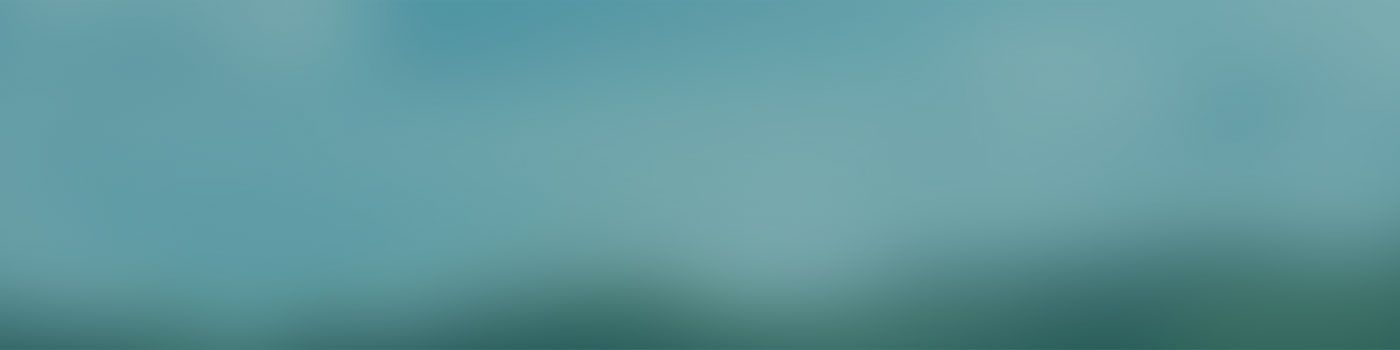
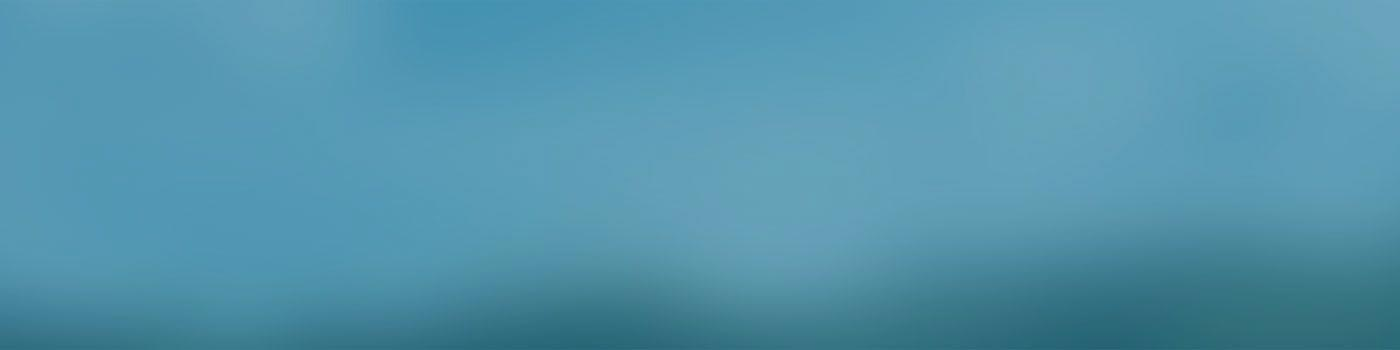
Minor index sample cosmetic changes

diff --git a/public/assets/css/style.css b/public/assets/css/style.css
@@ -1,1 +1,1 @@
-.container{display:block;-moz-box-sizing:content-box;-webkit-box-sizing:content-box;box-sizing:content-box;margin-left:auto;margin-right:auto;max-width:1000px;min-width:260px;padding-left:6%;padding-right:6%}.img-left{float:left;margin-top:.32em;margin-right:2rem;margin-bottom:2rem}.img-right{float:right;margin-top:.32em;margin-bottom:2rem;margin-left:2rem}.hide{display:none}.js-hide{display:none!important}.show{display:inherit}.block{display:block}*,:before,:after{-moz-box-sizing:border-box;-webkit-box-sizing:border-box;box-sizing:border-box;margin:0;outline:0;padding:0}html,body{min-width:260px}html{-ms-text-size-adjust:100%;-webkit-text-size-adjust:100%;font-family:'"1"';font-size:62.5%}body{color:#fff;font-family:Arial,Helvetica,sans-serif;font-size:1.6rem;font-weight:400;line-height:1em;position:relative;background:#689b9e}article,aside,details,figcaption,figure,footer,header,hgroup,main,nav,section,summary{display:block}embed,img,object{max-width:100%}embed,object{height:100%}audio,canvas,video{display:inline-block}abbr[title]{cursor:help;border-bottom:1px dotted #fff}b,strong,.bold{font-weight:700}mark{background:#ff0;color:#fff}canvas{-ms-touch-action:double-tap-zoom}iframe{margin-bottom:4rem}figure{text-align:center;padding:4rem;position:relative;margin-bottom:4rem;border:1px solid #bfbfbf}figure img{margin-bottom:4rem}figure figcaption{color:#737373;font-style:italic;line-height:1.3em}img{-ms-interpolation-mode:bicubic;display:inline-block}sub,sup{vertical-align:baseline;font-size:.6em;line-height:0;margin-left:.3em;position:relative}sub{bottom:-.25em}sup{top:-1em}::-moz-selection{background:#fff;color:#fff;text-shadow:none}::selection{background:#fff;color:#fff;text-shadow:none}h1,h2,h3,h4,h5,h6,.h1,.h2,.h3,.h4,.h5,.h6,.heading{color:#fff;font-family:'Open Sans',sans-serif;font-weight:300;line-height:1.4em;margin-bottom:2rem}h1 small,h2 small,h3 small,h4 small,h5 small,h6 small,.h1 small,.h2 small,.h3 small,.h4 small,.h5 small,.h6 small,.heading small{font-weight:400}h1,.h1{font-size:4rem}h2,.h2{font-size:3.6rem}h3,.h3{font-size:3.2rem}h4,.h4{font-size:2.8rem}h5,.h5{font-size:2.4rem}h6,.h6{font-size:2rem}.subheading{color:#fff;font-weight:400}p{color:#fff;font-weight:400;line-height:1.8em;margin-bottom:2rem}small{font-size:.8em}dfn,em,i,var,.italic{font-style:italic}blockquote,q{color:#404040;font-family:Georgia,Times;font-size:2rem;font-weight:400;line-height:1.4em;font-style:italic}blockquote cite,q cite{color:#a6a6a6;font-family:Arial,Helvetica,sans-serif;font-size:1.8rem;font-weight:400;line-height:1.2em;font-style:normal;margin-top:1.4rem}blockquote cite:before,q cite:before{content:'\2014\00a0'}blockquote p,q p{color:#404040}blockquote,.blockquote{padding-top:1em;padding-right:2em;padding-bottom:1em;padding-left:2em;margin-bottom:4rem;border-left:5px solid #a6a6a6}blockquote cite,.blockquote cite{display:block}code,kbd,samp{background:#c3e0e7;color:#404040;font-family:Monaco,'Andale Mono','Courier New';font-size:1.4rem;line-height:1.4em;padding-top:.1em;padding-right:.5em;padding-bottom:.1em;padding-left:.5em;-moz-background-clip:border;-webkit-background-clip:border-box;background-clip:border-box;border-radius:3px}pre{-moz-tab-size:4;tab-size:4;background:#737373;padding-top:1.4rem;padding-right:2rem;padding-bottom:1.4rem;padding-left:2rem;margin-bottom:4rem;-moz-background-clip:border;-webkit-background-clip:border-box;background-clip:border-box;border-radius:3px}pre code{background:0 0;display:block;color:#f2f2f2;font-family:Monaco,'Andale Mono','Courier New';font-size:1.3rem;padding:0}del,s,strike{text-decoration:line-through}a{color:#fff;outline:0;text-decoration:none}a:focus{outline:thin dotted}a:hover{color:#fff}a:active{color:#fff}a img{border:0}hr,.hr{display:block;border:0;border-top:1px solid #bfbfbf;height:1px;margin-top:4rem;margin-bottom:4rem}address{color:#404040;font-family:Arial,Helvetica,sans-serif;font-size:1.6rem;font-weight:400;line-height:1.8em;font-style:normal;margin-bottom:4rem}dl,ol,ul{list-style-position:inside;color:#fff;line-height:1.8em;margin-bottom:2rem}dl li,ol li,ul li{margin-bottom:.2rem}ol ol,ul ol,ol ul,ul ul{margin-bottom:0}ul{list-style-type:disc}ul ul{list-style-type:circle}ul ul ul{list-style-type:square}ol{list-style-type:decimal}nav ol,nav ul{margin:0;list-style:none}nav ol li,nav ul li{margin-bottom:0}dl{margin-bottom:4rem}dt{color:#595959;font-family:'Open Sans',sans-serif;font-size:2rem;margin-bottom:.2rem}dd{color:#a6a6a6;font-family:Arial,Helvetica,sans-serif;font-size:1.6rem;margin-bottom:1rem}table,.table{border-collapse:collapse;border-spacing:0;empty-cells:show;table-layout:fixed;word-wrap:break-word;-ms-word-wrap:break-word;width:100%;margin-bottom:4rem;border-bottom:1px solid #bfbfbf}table td,.table td,table th,.table th{text-align:left;vertical-align:top;border-top:1px solid #bfbfbf;line-height:1.8em;padding-top:.6rem;padding-right:.8rem;padding-bottom:.6rem;padding-left:.8rem}table thead,.table thead,table tfoot,.table tfoot{font-weight:700}table thead th,.table thead th,table tfoot th,.table tfoot th{vertical-align:bottom;color:#404040}table tbody tr:nth-child(odd) td,.table tbody tr:nth-child(odd) td{background:#f2f2f2}table caption,.table caption{background:#f2f2f2;font-style:italic;padding-top:1.2rem;padding-right:.8rem;padding-bottom:1.2rem;padding-left:.8rem}table img,.table img{vertical-align:top}table caption,.table caption{border:1px solid #bfbfbf;border-bottom:0}table td,.table td,table th,.table th{border-right:1px solid #bfbfbf}table td:first-child,.table td:first-child,table th:first-child,.table th:first-child{border-left:1px solid #bfbfbf}form{margin-bottom:4rem}button,input,select,textarea{font-family:Arial,Helvetica,sans-serif;font-size:1.6rem;font-weight:400;margin:0}button::-moz-focus-inner,input::-moz-focus-inner{border:0;padding:0}:-moz-placeholder{color:#bfbfbf}::-moz-placeholder{color:#bfbfbf}:-ms-input-placeholder{color:#bfbfbf}::-webkit-input-placeholder{color:#bfbfbf}fieldset{border:0;margin-bottom:4rem}legend{border:0;color:#595959;font-family:Arial,Helvetica,sans-serif;font-size:1.8rem;line-height:1em;display:block;margin-bottom:1.4rem}label{font-weight:400;line-height:1.3em;display:block;margin-bottom:.4rem}input[type=checkbox],input[type=radio]{margin-right:.5rem;padding:0}input[type=email],input[type=file],input[type=number],input[type=password],input[type=search],input[type=tel],input[type=text],textarea,select{background:#fff;color:#595959;width:100%;padding-top:.4rem;padding-right:.8rem;padding-bottom:.4rem;padding-left:.8rem;margin-bottom:2rem;border:1px solid #bfbfbf;min-height:3rem;min-width:200px;-moz-background-clip:border;-webkit-background-clip:border-box;background-clip:border-box;border-radius:3px;box-shadow:inset 1px 1px 2px 0 rgba(0,0,0,.1)}input[type=email]:focus:required:invalid,input[type=file]:focus:required:invalid,input[type=number]:focus:required:invalid,input[type=password]:focus:required:invalid,input[type=search]:focus:required:invalid,input[type=tel]:focus:required:invalid,input[type=text]:focus:required:invalid,textarea:focus:required:invalid,select:focus:required:invalid{background:#fff;border:1px solid #a41818;color:#781111}input[type=email]:invalid,input[type=file]:invalid,input[type=number]:invalid,input[type=password]:invalid,input[type=search]:invalid,input[type=tel]:invalid,input[type=text]:invalid,textarea:invalid,select:invalid{background:#fff;color:#781111;border:1px solid #a41818}input[type=email]:invalid:hover,input[type=file]:invalid:hover,input[type=number]:invalid:hover,input[type=password]:invalid:hover,input[type=search]:invalid:hover,input[type=tel]:invalid:hover,input[type=text]:invalid:hover,textarea:invalid:hover,select:invalid:hover{border:1px solid #781111}input[type=email]:invalid:focus,input[type=file]:invalid:focus,input[type=number]:invalid:focus,input[type=password]:invalid:focus,input[type=search]:invalid:focus,input[type=tel]:invalid:focus,input[type=text]:invalid:focus,textarea:invalid:focus,select:invalid:focus{border:1px solid #4b0b0b}input[type=email]:required,input[type=file]:required,input[type=number]:required,input[type=password]:required,input[type=search]:required,input[type=tel]:required,input[type=text]:required,textarea:required,select:required{background:#fff;color:#595959;border:1px solid #737373}input[type=email]:required:hover,input[type=file]:required:hover,input[type=number]:required:hover,input[type=password]:required:hover,input[type=search]:required:hover,input[type=tel]:required:hover,input[type=text]:required:hover,textarea:required:hover,select:required:hover{border:1px solid #595959}input[type=email]:required:focus,input[type=file]:required:focus,input[type=number]:required:focus,input[type=password]:required:focus,input[type=search]:required:focus,input[type=tel]:required:focus,input[type=text]:required:focus,textarea:required:focus,select:required:focus{border:1px solid #404040}input[type=email]:hover,input[type=file]:hover,input[type=number]:hover,input[type=password]:hover,input[type=search]:hover,input[type=tel]:hover,input[type=text]:hover,textarea:hover,select:hover{border:1px solid #a6a6a6}input[type=email]:focus,input[type=file]:focus,input[type=number]:focus,input[type=password]:focus,input[type=search]:focus,input[type=tel]:focus,input[type=text]:focus,textarea:focus,select:focus{border:1px solid #8c8c8c}input[type=email]:focus,input[type=file]:focus,input[type=number]:focus,input[type=password]:focus,input[type=search]:focus,input[type=tel]:focus,input[type=text]:focus,textarea:focus,select:focus{box-shadow:0 0 2px 2px rgba(0,0,0,.1)}input[type=email],input[type=file],input[type=number],input[type=password],input[type=search],input[type=tel],input[type=text],textarea{-moz-appearance:none;-webkit-appearance:none}input[type=search]::-webkit-search-decoration{display:none}input[type=button],input[type=reset],input[type=submit]{-moz-appearance:none;-webkit-appearance:none;cursor:pointer}select{cursor:pointer;outline:0;padding-right:.4rem}select[multiple]{vertical-align:top;min-height:8rem}select[multiple]:after{content:' '}textarea{vertical-align:top;line-height:1.3em;min-height:8rem;padding-top:1rem;padding-right:1rem;padding-bottom:1rem;padding-left:1rem;overflow:hidden;resize:vertical}input[disabled]{background-color:#f2f2f2;color:#737373;cursor:not-allowed}.inline-field button,.inline-field input,.inline-field select,.inline-field textarea{display:inline-block;width:auto}.inline-field label{display:inline-block;margin-right:1rem}button,input[type=button],input[type=reset],input[type=submit],.button{-webkit-tap-highlight-color:#666;text-align:center;background:#737373;color:#fff;cursor:pointer;font-family:Arial,Helvetica,sans-serif;font-size:1.6rem;font-weight:400;display:inline-block;line-height:1em;margin-bottom:0;padding-top:1.4rem;padding-right:3rem;padding-bottom:1.4rem;padding-left:3rem;text-shadow:none;-moz-background-clip:border;-webkit-background-clip:border-box;background-clip:border-box;border-radius:3px;border:0;-webkit-backface-visibility:hidden;-moz-transition:background-color .2s ease-in-out 0s;-webkit-transition:background-color .2s ease-in-out 0s;transition:background-color .2s ease-in-out 0s}button:hover,input[type=button]:hover,input[type=reset]:hover,input[type=submit]:hover,.button:hover{background-color:#666;color:#fff}button:active,input[type=button]:active,input[type=reset]:active,input[type=submit]:active,.button:active{background-color:#595959;color:#fff}button.button-colored,input[type=button].button-colored,input[type=reset].button-colored,input[type=submit].button-colored,.button.button-colored{border-color:#f2f2f2;-webkit-tap-highlight-color:#f2f2f2;background:#fff;color:#fff}button.button-colored:hover,input[type=button].button-colored:hover,input[type=reset].button-colored:hover,input[type=submit].button-colored:hover,.button.button-colored:hover{background-color:#f2f2f2;color:#fff}button.button-colored:active,input[type=button].button-colored:active,input[type=reset].button-colored:active,input[type=submit].button-colored:active,.button.button-colored:active{background-color:#e6e6e6;color:#fff}button[disabled],input[type=button][disabled],input[type=reset][disabled],input[type=submit][disabled],.button[disabled],button.button-disabled,input[type=button].button-disabled,input[type=reset].button-disabled,input[type=submit].button-disabled,.button.button-disabled{cursor:not-allowed}button[disabled],input[type=button][disabled],input[type=reset][disabled],input[type=submit][disabled],.button[disabled],button.button-disabled,input[type=button].button-disabled,input[type=reset].button-disabled,input[type=submit].button-disabled,.button.button-disabled,button[disabled]:active,input[type=button][disabled]:active,input[type=reset][disabled]:active,input[type=submit][disabled]:active,.button[disabled]:active,button.button-disabled:active,input[type=button].button-disabled:active,input[type=reset].button-disabled:active,input[type=submit].button-disabled:active,.button.button-disabled:active,button[disabled]:hover,input[type=button][disabled]:hover,input[type=reset][disabled]:hover,input[type=submit][disabled]:hover,.button[disabled]:hover,button.button-disabled:hover,input[type=button].button-disabled:hover,input[type=reset].button-disabled:hover,input[type=submit].button-disabled:hover,.button.button-disabled:hover{background:#bfbfbf;color:#737373}button[disabled]{cursor:not-allowed}.js-placeholder{background:#bfbfbf;width:100%;display:block;height:0;padding-top:56.25%;position:relative}.js-placeholder-text,.js-placeholder span{position:absolute;text-align:center;display:block;color:#e6e6e6;width:100%;font-family:'Open Sans',sans-serif;font-size:2.3rem;line-height:0;top:50%}html,body{min-height:100%}body{background-image:url(../img/bg.jpg);background-position:50% 0;background-repeat:no-repeat;background-size:cover;padding-top:10%;padding-bottom:10%}footer[role=contentinfo] small{font-size:1.3rem;line-height:1.4em;display:block;margin-bottom:1rem}footer[role=contentinfo] ul{font-size:1.4rem}footer[role=contentinfo] ul li{display:inline;margin-left:8px}footer[role=contentinfo] ul li:first-child{margin-left:0}footer[role=contentinfo] a:hover{text-decoration:underline}#logo{filter:alpha(opacity=70);opacity:.7;display:block;margin-bottom:4rem;width:120px;height:40px}#logo:hover{filter:alpha(opacity=100);opacity:1}.heading{font-size:2.4rem;max-width:75rem;margin-bottom:4rem}.buttons{margin-top:10px;margin-bottom:5rem}.button{border:1px solid #fff;border:1px solid rgba(255,255,255,.7);width:100%;margin-bottom:12px}.button,.button:active,.button:hover{background:0 0}.button:hover{border:1px solid #fff}@-ms-viewport{width:device-width}html{padding-bottom:32px}html:before,html:after{width:100%;position:fixed;height:32px;z-index:3000}html:before{background:#dfdfdf;content:' ';left:0}html:after{color:#595959;content:'1 \2022\00a0Mobile Portrait / 320px';font-family:Arial,sans-serif;font-size:12px;line-height:33px;margin-left:auto;margin-right:auto;padding-left:16px;padding-right:16px}html:after:hover{display:none}html:before,html:after{bottom:0}html.js-testing-disabled{padding-bottom:0}.js-testing-bar{text-align:right;color:#595959;width:100%;position:fixed;font-family:'Open Sans',sans-serif;font-size:12px;height:32px;line-height:33px;padding-left:16px;padding-right:16px;-moz-user-select:none;-webkit-user-select:none;-ms-user-select:none;user-select:none;z-index:3001;bottom:0}.js-testing-cues{width:100%;height:100%;position:fixed;display:none;left:0;top:0;z-index:2000}.js-testing-cue{border-left:3px solid red;border-right:3px solid red;height:100%;position:fixed;left:50%;filter:alpha(opacity=20);opacity:.2}.js-testing-cue:hover{filter:alpha(opacity=40);opacity:.4}#testing-frame{display:block;border:0;margin-left:auto;margin-right:auto;margin-bottom:0}.js-testing-disabled:before,.js-testing-disabled:after,.js-testing-disabled .js-testing-bar,.js-testing-disabled .js-testing-cues,.js-testing-disabled .js-testing-cue{display:none!important}.js-testing-enabled body{background-image:none;background:#737373;margin:0;padding:0}@media (min-width:455px){html{font-family:'"2"'}.heading{font-size:2.8rem}html:after,.js-testing-bar{left:50%;margin-left:-227.5px;width:455px}html:after{border-left:3px solid #c6c6c6;border-right:3px solid #c6c6c6;content:'2 \2022\00a0Mobile Landscape / 455px'}}@media (min-width:743px){html{font-family:'"3"'}.row{margin-left:-5%;max-width:105%;letter-spacing:-.32em}.intro{vertical-align:top;display:inline-block;letter-spacing:normal;margin-left:5%;width:61.66666667%}.buttons{vertical-align:top;display:inline-block;letter-spacing:normal;margin-left:5%;width:28.33333333%}.heading{font-size:3.4rem}html:after,.js-testing-bar{left:50%;margin-left:-371.5px;width:743px}html:after{border-left:3px solid #c6c6c6;border-right:3px solid #c6c6c6;content:'3 \2022\00a0Tablet Portrait / 743px'}}@media (min-width:999px){html{font-family:'"4"'}html:after,.js-testing-bar{left:50%;margin-left:-499.5px;width:999px}html:after{border-left:3px solid #c6c6c6;border-right:3px solid #c6c6c6;content:'4 \2022\00a0Small Desktop / 999px'}}@media (min-width:1255px){html{font-family:'"5"'}html:after,.js-testing-bar{left:50%;margin-left:-627.5px;width:1255px}html:after{border-left:3px solid #c6c6c6;border-right:3px solid #c6c6c6;content:'5 \2022\00a0Medium Desktop / 1255px'}}@media (min-width:1415px){html{font-family:'"6"'}html:after,.js-testing-bar{left:50%;margin-left:-707.5px;width:1415px}html:after{border-left:3px solid #c6c6c6;border-right:3px solid #c6c6c6;content:'6 \2022\00a0Large Desktop / 1415px'}}@media print{*{background:0 0;color:#000;box-shadow:none;text-shadow:none}html{font-size:80%}body{padding-top:2cm;padding-right:.5cm;padding-bottom:2cm;padding-left:.5cm}header[role=banner],footer[role=contentinfo],aside,embed,iframe,nav,object{display:none}main a:link{color:#06c}main a:link:after{content:" [" attr(href) "] "}blockquote,img,pre,tr,p{page-break-inside:avoid}h2,h3{page-break-after:avoid}img{max-width:100%}p{orphans:3;widows:3}}
+.container{display:block;-moz-box-sizing:content-box;-webkit-box-sizing:content-box;box-sizing:content-box;margin-left:auto;margin-right:auto;max-width:1000px;min-width:260px;padding-left:6%;padding-right:6%}.img-left{float:left;margin-top:.32em;margin-right:2rem;margin-bottom:2rem}.img-right{float:right;margin-top:.32em;margin-bottom:2rem;margin-left:2rem}.hide{display:none}.js-hide{display:none!important}.show{display:inherit}.block{display:block}*,:before,:after{-moz-box-sizing:border-box;-webkit-box-sizing:border-box;box-sizing:border-box;margin:0;outline:0;padding:0}html,body{min-width:260px}html{-ms-text-size-adjust:100%;-webkit-text-size-adjust:100%;font-family:'"1"';font-size:62.5%}body{color:#fff;font-family:Arial,Helvetica,sans-serif;font-size:1.6rem;font-weight:400;line-height:1em;position:relative;background:#5699b4}article,aside,details,figcaption,figure,footer,header,hgroup,main,nav,section,summary{display:block}embed,img,object{max-width:100%}embed,object{height:100%}audio,canvas,video{display:inline-block}abbr[title]{cursor:help;border-bottom:1px dotted #fff}b,strong,.bold{font-weight:700}mark{background:#ff0;color:#fff}canvas{-ms-touch-action:double-tap-zoom}iframe{margin-bottom:4rem}figure{text-align:center;padding:4rem;position:relative;margin-bottom:4rem;border:1px solid #bfbfbf}figure img{margin-bottom:4rem}figure figcaption{color:#737373;font-style:italic;line-height:1.3em}img{-ms-interpolation-mode:bicubic;display:inline-block}sub,sup{vertical-align:baseline;font-size:.6em;line-height:0;margin-left:.3em;position:relative}sub{bottom:-.25em}sup{top:-1em}::-moz-selection{background:#fff;color:#fff;text-shadow:none}::selection{background:#fff;color:#fff;text-shadow:none}h1,h2,h3,h4,h5,h6,.h1,.h2,.h3,.h4,.h5,.h6,.heading{color:#fff;font-family:'Open Sans',sans-serif;font-weight:300;line-height:1.4em;margin-bottom:2rem}h1 small,h2 small,h3 small,h4 small,h5 small,h6 small,.h1 small,.h2 small,.h3 small,.h4 small,.h5 small,.h6 small,.heading small{font-weight:400}h1,.h1{font-size:4rem}h2,.h2{font-size:3.6rem}h3,.h3{font-size:3.2rem}h4,.h4{font-size:2.8rem}h5,.h5{font-size:2.4rem}h6,.h6{font-size:2rem}.subheading{color:#fff;font-weight:400}p{color:#fff;font-weight:400;line-height:1.8em;margin-bottom:2rem}small{font-size:.8em}dfn,em,i,var,.italic{font-style:italic}blockquote,q{color:#404040;font-family:Georgia,Times;font-size:2rem;font-weight:400;line-height:1.4em;font-style:italic}blockquote cite,q cite{color:#a6a6a6;font-family:Arial,Helvetica,sans-serif;font-size:1.8rem;font-weight:400;line-height:1.2em;font-style:normal;margin-top:1.4rem}blockquote cite:before,q cite:before{content:'\2014\00a0'}blockquote p,q p{color:#404040}blockquote,.blockquote{padding-top:1em;padding-right:2em;padding-bottom:1em;padding-left:2em;margin-bottom:4rem;border-left:5px solid #a6a6a6}blockquote cite,.blockquote cite{display:block}code,kbd,samp{background:#c3e0e7;color:#404040;font-family:Monaco,'Andale Mono','Courier New';font-size:1.4rem;line-height:1.4em;padding-top:.1em;padding-right:.5em;padding-bottom:.1em;padding-left:.5em;-moz-background-clip:border;-webkit-background-clip:border-box;background-clip:border-box;border-radius:3px}pre{-moz-tab-size:4;tab-size:4;background:#737373;padding-top:1.4rem;padding-right:2rem;padding-bottom:1.4rem;padding-left:2rem;margin-bottom:4rem;-moz-background-clip:border;-webkit-background-clip:border-box;background-clip:border-box;border-radius:3px}pre code{background:0 0;display:block;color:#f2f2f2;font-family:Monaco,'Andale Mono','Courier New';font-size:1.3rem;padding:0}del,s,strike{text-decoration:line-through}a{color:#fff;outline:0;text-decoration:none}a:focus{outline:thin dotted}a:hover{color:#fff}a:active{color:#fff}a img{border:0}hr,.hr{display:block;border:0;border-top:1px solid #bfbfbf;height:1px;margin-top:4rem;margin-bottom:4rem}address{color:#404040;font-family:Arial,Helvetica,sans-serif;font-size:1.6rem;font-weight:400;line-height:1.8em;font-style:normal;margin-bottom:4rem}dl,ol,ul{list-style-position:inside;color:#fff;line-height:1.8em;margin-bottom:2rem}dl li,ol li,ul li{margin-bottom:.2rem}ol ol,ul ol,ol ul,ul ul{margin-bottom:0}ul{list-style-type:disc}ul ul{list-style-type:circle}ul ul ul{list-style-type:square}ol{list-style-type:decimal}nav ol,nav ul{margin:0;list-style:none}nav ol li,nav ul li{margin-bottom:0}dl{margin-bottom:4rem}dt{color:#595959;font-family:'Open Sans',sans-serif;font-size:2rem;margin-bottom:.2rem}dd{color:#a6a6a6;font-family:Arial,Helvetica,sans-serif;font-size:1.6rem;margin-bottom:1rem}table,.table{border-collapse:collapse;border-spacing:0;empty-cells:show;table-layout:fixed;word-wrap:break-word;-ms-word-wrap:break-word;width:100%;margin-bottom:4rem;border-bottom:1px solid #bfbfbf}table td,.table td,table th,.table th{text-align:left;vertical-align:top;border-top:1px solid #bfbfbf;line-height:1.8em;padding-top:.6rem;padding-right:.8rem;padding-bottom:.6rem;padding-left:.8rem}table thead,.table thead,table tfoot,.table tfoot{font-weight:700}table thead th,.table thead th,table tfoot th,.table tfoot th{vertical-align:bottom;color:#404040}table tbody tr:nth-child(odd) td,.table tbody tr:nth-child(odd) td{background:#f2f2f2}table caption,.table caption{background:#f2f2f2;font-style:italic;padding-top:1.2rem;padding-right:.8rem;padding-bottom:1.2rem;padding-left:.8rem}table img,.table img{vertical-align:top}table caption,.table caption{border:1px solid #bfbfbf;border-bottom:0}table td,.table td,table th,.table th{border-right:1px solid #bfbfbf}table td:first-child,.table td:first-child,table th:first-child,.table th:first-child{border-left:1px solid #bfbfbf}form{margin-bottom:4rem}button,input,select,textarea{font-family:Arial,Helvetica,sans-serif;font-size:1.6rem;font-weight:400;margin:0}button::-moz-focus-inner,input::-moz-focus-inner{border:0;padding:0}:-moz-placeholder{color:#bfbfbf}::-moz-placeholder{color:#bfbfbf}:-ms-input-placeholder{color:#bfbfbf}::-webkit-input-placeholder{color:#bfbfbf}fieldset{border:0;margin-bottom:4rem}legend{border:0;color:#595959;font-family:Arial,Helvetica,sans-serif;font-size:1.8rem;line-height:1em;display:block;margin-bottom:1.4rem}label{font-weight:400;line-height:1.3em;display:block;margin-bottom:.4rem}input[type=checkbox],input[type=radio]{margin-right:.5rem;padding:0}input[type=email],input[type=file],input[type=number],input[type=password],input[type=search],input[type=tel],input[type=text],textarea,select{background:#fff;color:#595959;width:100%;padding-top:.4rem;padding-right:.8rem;padding-bottom:.4rem;padding-left:.8rem;margin-bottom:2rem;border:1px solid #bfbfbf;min-height:3rem;min-width:200px;-moz-background-clip:border;-webkit-background-clip:border-box;background-clip:border-box;border-radius:3px;box-shadow:inset 1px 1px 2px 0 rgba(0,0,0,.1)}input[type=email]:focus:required:invalid,input[type=file]:focus:required:invalid,input[type=number]:focus:required:invalid,input[type=password]:focus:required:invalid,input[type=search]:focus:required:invalid,input[type=tel]:focus:required:invalid,input[type=text]:focus:required:invalid,textarea:focus:required:invalid,select:focus:required:invalid{background:#fff;border:1px solid #a41818;color:#781111}input[type=email]:invalid,input[type=file]:invalid,input[type=number]:invalid,input[type=password]:invalid,input[type=search]:invalid,input[type=tel]:invalid,input[type=text]:invalid,textarea:invalid,select:invalid{background:#fff;color:#781111;border:1px solid #a41818}input[type=email]:invalid:hover,input[type=file]:invalid:hover,input[type=number]:invalid:hover,input[type=password]:invalid:hover,input[type=search]:invalid:hover,input[type=tel]:invalid:hover,input[type=text]:invalid:hover,textarea:invalid:hover,select:invalid:hover{border:1px solid #781111}input[type=email]:invalid:focus,input[type=file]:invalid:focus,input[type=number]:invalid:focus,input[type=password]:invalid:focus,input[type=search]:invalid:focus,input[type=tel]:invalid:focus,input[type=text]:invalid:focus,textarea:invalid:focus,select:invalid:focus{border:1px solid #4b0b0b}input[type=email]:required,input[type=file]:required,input[type=number]:required,input[type=password]:required,input[type=search]:required,input[type=tel]:required,input[type=text]:required,textarea:required,select:required{background:#fff;color:#595959;border:1px solid #737373}input[type=email]:required:hover,input[type=file]:required:hover,input[type=number]:required:hover,input[type=password]:required:hover,input[type=search]:required:hover,input[type=tel]:required:hover,input[type=text]:required:hover,textarea:required:hover,select:required:hover{border:1px solid #595959}input[type=email]:required:focus,input[type=file]:required:focus,input[type=number]:required:focus,input[type=password]:required:focus,input[type=search]:required:focus,input[type=tel]:required:focus,input[type=text]:required:focus,textarea:required:focus,select:required:focus{border:1px solid #404040}input[type=email]:hover,input[type=file]:hover,input[type=number]:hover,input[type=password]:hover,input[type=search]:hover,input[type=tel]:hover,input[type=text]:hover,textarea:hover,select:hover{border:1px solid #a6a6a6}input[type=email]:focus,input[type=file]:focus,input[type=number]:focus,input[type=password]:focus,input[type=search]:focus,input[type=tel]:focus,input[type=text]:focus,textarea:focus,select:focus{border:1px solid #8c8c8c}input[type=email]:focus,input[type=file]:focus,input[type=number]:focus,input[type=password]:focus,input[type=search]:focus,input[type=tel]:focus,input[type=text]:focus,textarea:focus,select:focus{box-shadow:0 0 2px 2px rgba(0,0,0,.1)}input[type=email],input[type=file],input[type=number],input[type=password],input[type=search],input[type=tel],input[type=text],textarea{-moz-appearance:none;-webkit-appearance:none}input[type=search]::-webkit-search-decoration{display:none}input[type=button],input[type=reset],input[type=submit]{-moz-appearance:none;-webkit-appearance:none;cursor:pointer}select{cursor:pointer;outline:0;padding-right:.4rem}select[multiple]{vertical-align:top;min-height:8rem}select[multiple]:after{content:' '}textarea{vertical-align:top;line-height:1.3em;min-height:8rem;padding-top:1rem;padding-right:1rem;padding-bottom:1rem;padding-left:1rem;overflow:hidden;resize:vertical}input[disabled]{background-color:#f2f2f2;color:#737373;cursor:not-allowed}.inline-field button,.inline-field input,.inline-field select,.inline-field textarea{display:inline-block;width:auto}.inline-field label{display:inline-block;margin-right:1rem}button,input[type=button],input[type=reset],input[type=submit],.button{-webkit-tap-highlight-color:#666;text-align:center;background:#737373;color:#fff;cursor:pointer;font-family:'Open Sans',sans-serif;font-size:1.6rem;font-weight:400;display:inline-block;line-height:1em;margin-bottom:0;padding-top:1.4rem;padding-right:3rem;padding-bottom:1.4rem;padding-left:3rem;text-shadow:none;-moz-background-clip:border;-webkit-background-clip:border-box;background-clip:border-box;border-radius:3px;border:0;-webkit-backface-visibility:hidden;-moz-transition:background-color .2s ease-in-out 0s;-webkit-transition:background-color .2s ease-in-out 0s;transition:background-color .2s ease-in-out 0s}button:hover,input[type=button]:hover,input[type=reset]:hover,input[type=submit]:hover,.button:hover{background-color:#666;color:#fff}button:active,input[type=button]:active,input[type=reset]:active,input[type=submit]:active,.button:active{background-color:#595959;color:#fff}button.button-colored,input[type=button].button-colored,input[type=reset].button-colored,input[type=submit].button-colored,.button.button-colored{border-color:#f2f2f2;-webkit-tap-highlight-color:#f2f2f2;background:#fff;color:#fff}button.button-colored:hover,input[type=button].button-colored:hover,input[type=reset].button-colored:hover,input[type=submit].button-colored:hover,.button.button-colored:hover{background-color:#f2f2f2;color:#fff}button.button-colored:active,input[type=button].button-colored:active,input[type=reset].button-colored:active,input[type=submit].button-colored:active,.button.button-colored:active{background-color:#e6e6e6;color:#fff}button[disabled],input[type=button][disabled],input[type=reset][disabled],input[type=submit][disabled],.button[disabled],button.button-disabled,input[type=button].button-disabled,input[type=reset].button-disabled,input[type=submit].button-disabled,.button.button-disabled{cursor:not-allowed}button[disabled],input[type=button][disabled],input[type=reset][disabled],input[type=submit][disabled],.button[disabled],button.button-disabled,input[type=button].button-disabled,input[type=reset].button-disabled,input[type=submit].button-disabled,.button.button-disabled,button[disabled]:active,input[type=button][disabled]:active,input[type=reset][disabled]:active,input[type=submit][disabled]:active,.button[disabled]:active,button.button-disabled:active,input[type=button].button-disabled:active,input[type=reset].button-disabled:active,input[type=submit].button-disabled:active,.button.button-disabled:active,button[disabled]:hover,input[type=button][disabled]:hover,input[type=reset][disabled]:hover,input[type=submit][disabled]:hover,.button[disabled]:hover,button.button-disabled:hover,input[type=button].button-disabled:hover,input[type=reset].button-disabled:hover,input[type=submit].button-disabled:hover,.button.button-disabled:hover{background:#bfbfbf;color:#737373}button[disabled]{cursor:not-allowed}.js-placeholder{background:#bfbfbf;width:100%;display:block;height:0;padding-top:56.25%;position:relative}.js-placeholder-text,.js-placeholder span{position:absolute;text-align:center;display:block;color:#e6e6e6;width:100%;font-family:'Open Sans',sans-serif;font-size:2.3rem;line-height:0;top:50%}html,body{min-height:100%}body{background-image:url(../img/bg.jpg);background-position:50% 0;background-repeat:no-repeat;background-size:cover;padding-top:10%;padding-bottom:10%}footer[role=contentinfo] small{font-size:1.3rem;line-height:1.4em;display:block;margin-bottom:1rem}footer[role=contentinfo] ul{font-size:1.4rem}footer[role=contentinfo] ul li{display:inline;margin-left:8px}footer[role=contentinfo] ul li:first-child{margin-left:0}footer[role=contentinfo] a:hover{text-decoration:underline}#logo{display:block;margin-bottom:4rem;width:120px;height:40px}.heading{font-size:2.4rem;max-width:75rem;margin-bottom:4rem}.buttons{margin-top:10px;margin-bottom:5rem}.button{border:1px solid #fff;border:1px solid rgba(255,255,255,.7);width:100%;margin-bottom:12px}.button,.button:active,.button:hover{background:0 0}.button:hover{border:1px solid #fff}@-ms-viewport{width:device-width}html{padding-bottom:32px}html:before,html:after{width:100%;position:fixed;height:32px;z-index:3000}html:before{background:#dfdfdf;content:' ';left:0}html:after{color:#595959;content:'1 \2022\00a0Mobile Portrait / 320px';font-family:Arial,sans-serif;font-size:12px;line-height:33px;margin-left:auto;margin-right:auto;padding-left:16px;padding-right:16px}html:after:hover{display:none}html:before,html:after{bottom:0}html.js-testing-disabled{padding-bottom:0}.js-testing-bar{text-align:right;color:#595959;width:100%;position:fixed;font-family:'Open Sans',sans-serif;font-size:12px;height:32px;line-height:33px;padding-left:16px;padding-right:16px;-moz-user-select:none;-webkit-user-select:none;-ms-user-select:none;user-select:none;z-index:3001;bottom:0}.js-testing-cues{width:100%;height:100%;position:fixed;display:none;left:0;top:0;z-index:2000}.js-testing-cue{border-left:3px solid red;border-right:3px solid red;height:100%;position:fixed;left:50%;filter:alpha(opacity=20);opacity:.2}.js-testing-cue:hover{filter:alpha(opacity=40);opacity:.4}#testing-frame{display:block;border:0;margin-left:auto;margin-right:auto;margin-bottom:0}.js-testing-disabled:before,.js-testing-disabled:after,.js-testing-disabled .js-testing-bar,.js-testing-disabled .js-testing-cues,.js-testing-disabled .js-testing-cue{display:none!important}.js-testing-enabled body{background-image:none;background:#737373;margin:0;padding:0}@media (min-width:455px){html{font-family:'"2"'}.heading{font-size:2.8rem}html:after,.js-testing-bar{left:50%;margin-left:-227.5px;width:455px}html:after{border-left:3px solid #c6c6c6;border-right:3px solid #c6c6c6;content:'2 \2022\00a0Mobile Landscape / 455px'}}@media (min-width:743px){html{font-family:'"3"'}.row{margin-left:-5%;max-width:105%;letter-spacing:-.32em}.intro{vertical-align:top;display:inline-block;letter-spacing:normal;margin-left:5%;width:61.66666667%}.buttons{vertical-align:top;display:inline-block;letter-spacing:normal;margin-left:5%;width:28.33333333%}.heading{font-size:3.4rem}html:after,.js-testing-bar{left:50%;margin-left:-371.5px;width:743px}html:after{border-left:3px solid #c6c6c6;border-right:3px solid #c6c6c6;content:'3 \2022\00a0Tablet Portrait / 743px'}}@media (min-width:999px){html{font-family:'"4"'}html:after,.js-testing-bar{left:50%;margin-left:-499.5px;width:999px}html:after{border-left:3px solid #c6c6c6;border-right:3px solid #c6c6c6;content:'4 \2022\00a0Small Desktop / 999px'}}@media (min-width:1255px){html{font-family:'"5"'}html:after,.js-testing-bar{left:50%;margin-left:-627.5px;width:1255px}html:after{border-left:3px solid #c6c6c6;border-right:3px solid #c6c6c6;content:'5 \2022\00a0Medium Desktop / 1255px'}}@media (min-width:1415px){html{font-family:'"6"'}html:after,.js-testing-bar{left:50%;margin-left:-707.5px;width:1415px}html:after{border-left:3px solid #c6c6c6;border-right:3px solid #c6c6c6;content:'6 \2022\00a0Large Desktop / 1415px'}}@media print{*{background:0 0;color:#000;box-shadow:none;text-shadow:none}html{font-size:80%}body{padding-top:2cm;padding-right:.5cm;padding-bottom:2cm;padding-left:.5cm}header[role=banner],footer[role=contentinfo],aside,embed,iframe,nav,object{display:none}main a:link{color:#06c}main a:link:after{content:" [" attr(href) "] "}blockquote,img,pre,tr,p{page-break-inside:avoid}h2,h3{page-break-after:avoid}img{max-width:100%}p{orphans:3;widows:3}}

diff --git a/public/assets/css/custom/variables.less b/public/assets/css/custom/variables.less
@@ -7,7 +7,7 @@
 
 @baseColor: @white;
 
-@bodyBackground: #689B9E;
+@bodyBackground: #5699b4;
 
 @linkColor: @white;
 @linkColorHover: @white;
@@ -15,3 +15,5 @@
 
 @headingFont: 'Open Sans', sans-serif;
 @headingFontWeight: 300;
+
+@buttonFont: @headingFont;

diff --git a/public/assets/css/custom/screen.less b/public/assets/css/custom/screen.less
@@ -34,11 +34,7 @@ footer[role='contentinfo'] {
 // Index
 
 #logo {
-	.opacity(70%);
 	.spaced-block(@blockMarginBottom; 120px; 40px);
-	&:hover {
-		.opaque();
-	}
 }
 .heading {
 	.font-size(2.4);

diff --git a/public/assets/css/core/variables.less b/public/assets/css/core/variables.less
@@ -54,7 +54,7 @@
 // Links //
 ///////////
 
-@linkColor: #09666e;
+@linkColor: #5699b4;
 @linkColorHover: darken(@linkColor, 10%);
 @linkColorActive: darken(@linkColor, 20%);
 
